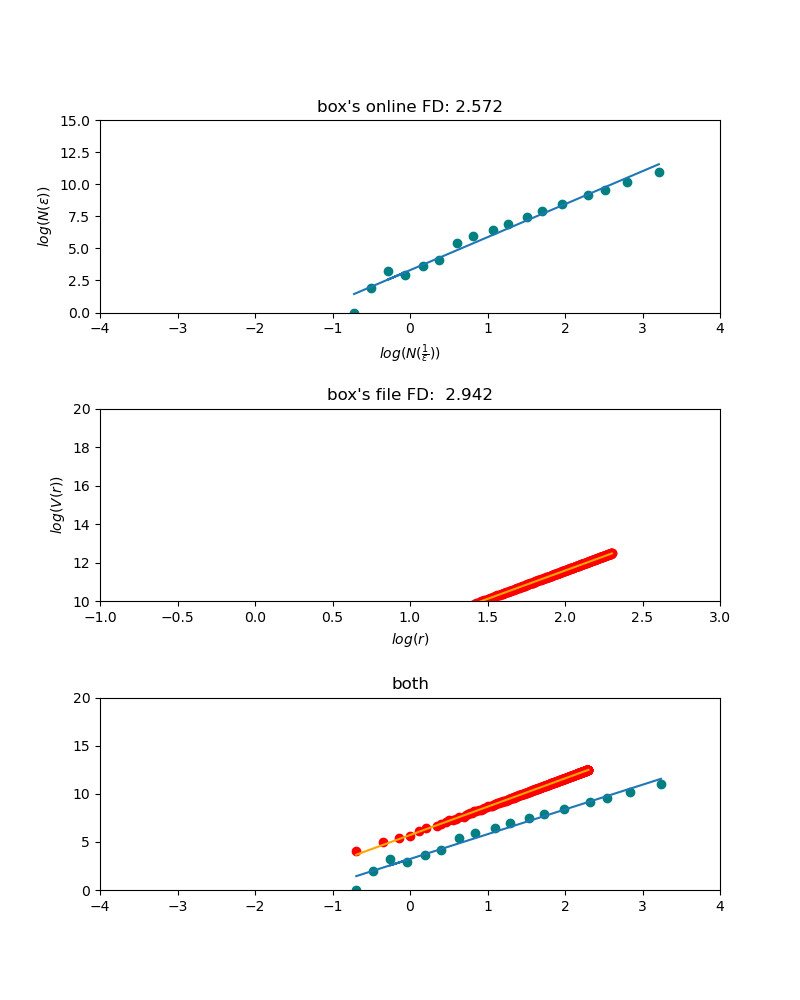
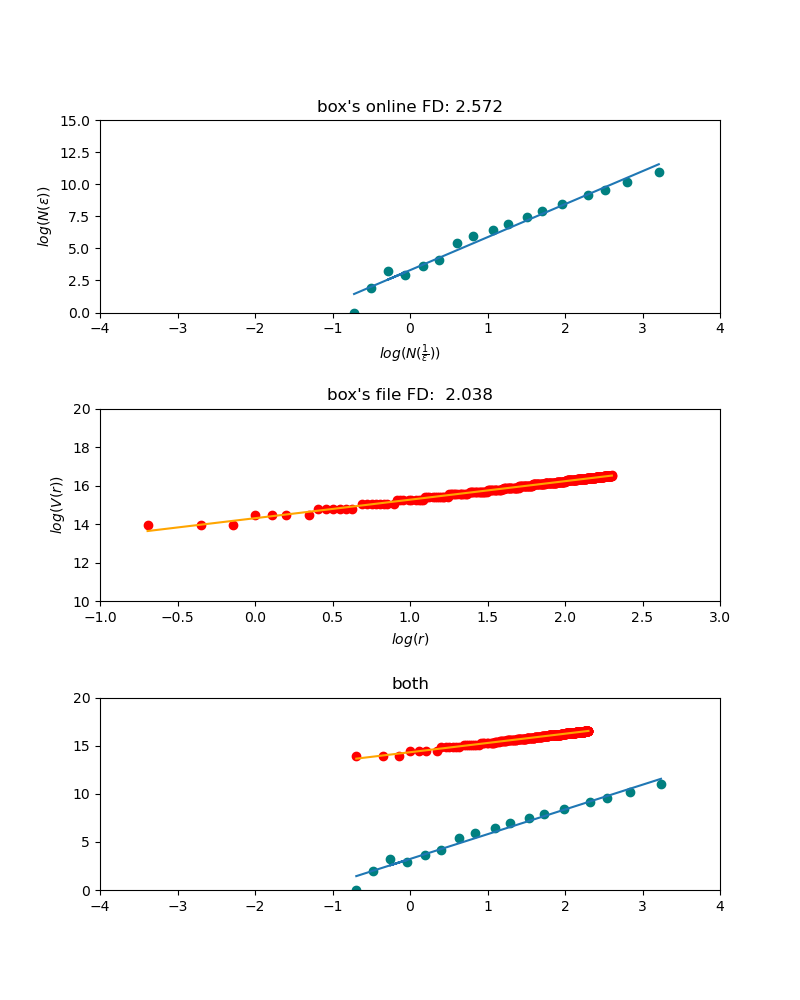
updated file fd calculation so it's 3-m

diff --git a/FractalDimension.py b/FractalDimension.py
@@ -103,8 +103,8 @@ def findFromFDFile(filename):
         Y.append(values[3])
     file.close()
     m, b = np.polyfit(X, Y, 1)
-    print("Jessica's fractal dimension of " + filename.split('\\')[-2] + " : " + str(m))
-    return m, X, Y
+    print("Jessica's fractal dimension of " + filename.split('\\')[-2] + " : " + str(3-m))
+    return (3-m), X, Y
 
 def createBox(length, numVertices):
     outputFile = "D:\Members\Cathy\\box\\box.obj"
